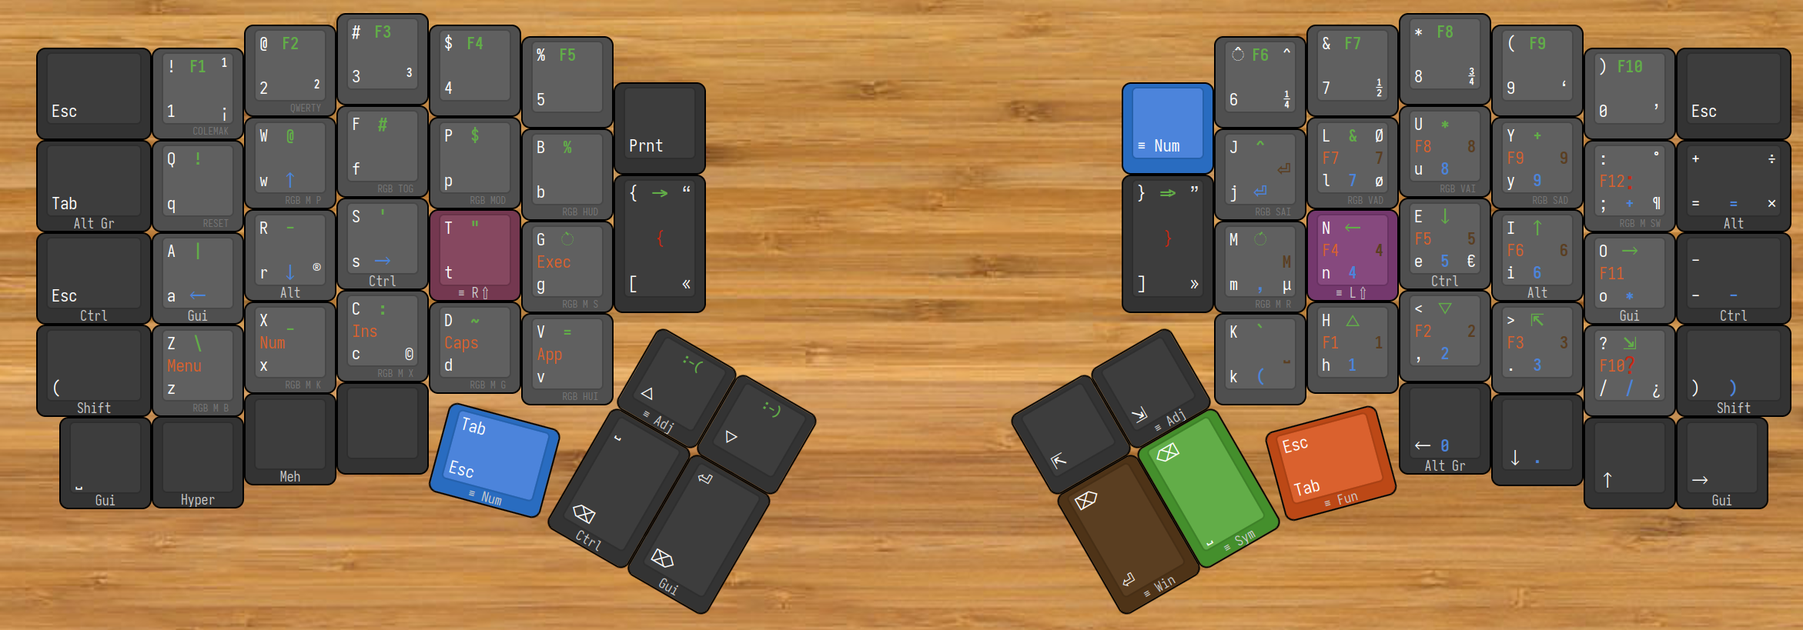
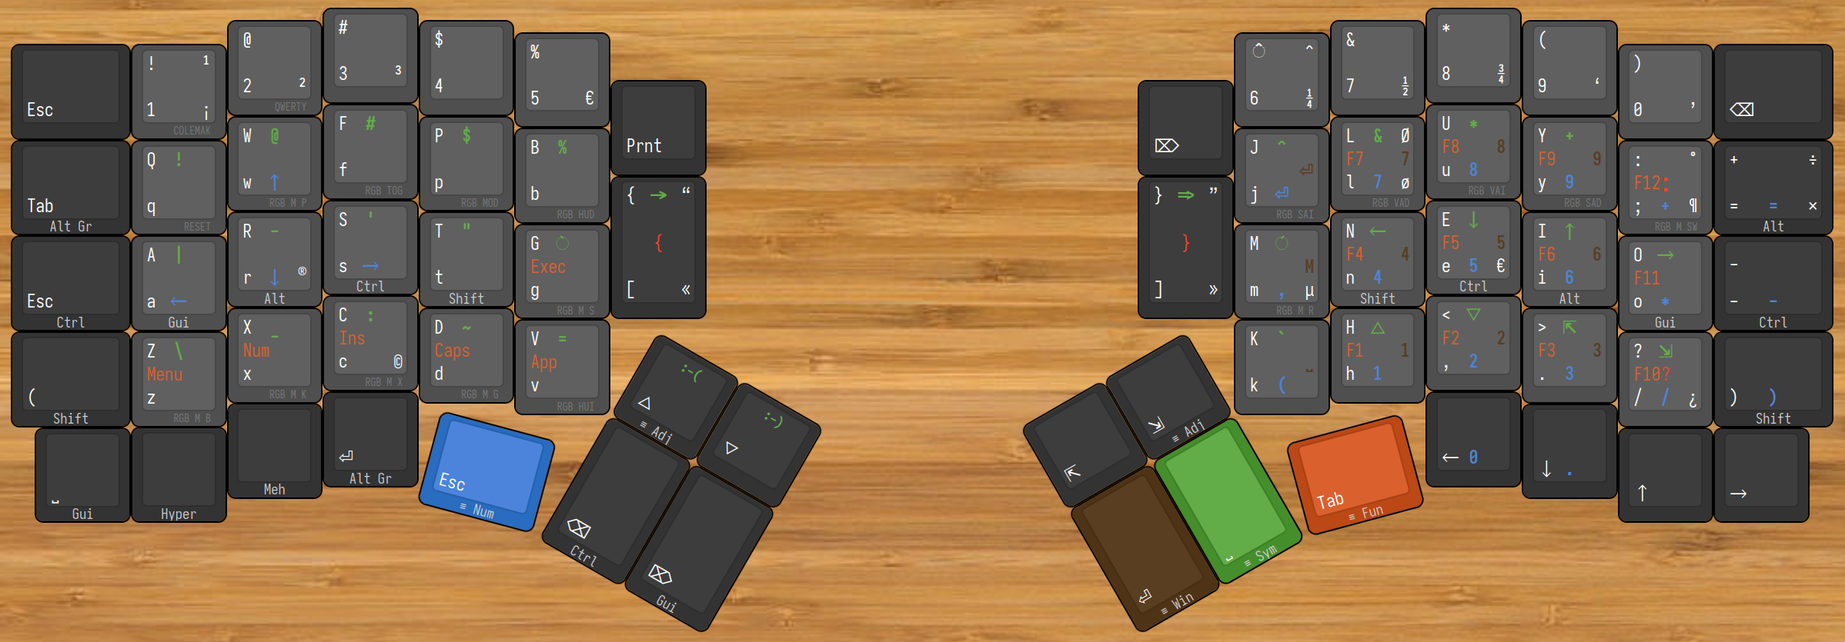
New branch with mouse and clipboard.
This new layout is inspired by the Miryoku one.

Features:
- Simple shift on home rows (instead of layer with inverted thumbs)
- Mouse layer
- Clipboard keys

diff --git a/keymap.c b/keymap.c
@@ -2,15 +2,12 @@
 
 // Layer names
 enum{
-  // - Base layers:
-  _COLEMAKDHMK,
-  // - Symbols, numbers, functions and custom shifts:
-  _SYMB,
-  _NUMB,
-  _FUNC,
-  _RHSH, // Righ hand shifted keycodes
-  _LHSH, // Left hand shifted keycodes
+  _COLEMAKDH, // Base Colemak Mod-DH
+  _SYMB, // Symbols
+  _NUMB, // Numbers
+  _FUNC, // Functions keys
   _AWES, // AwesomeWM layer
+  _MOUS, // Mouse layer
   // - Adjust layer:
   _ADJUST
 };
@@ -126,50 +123,40 @@ qk_tap_dance_action_t tap_dance_actions[] = {
 #define KC_ADEN LT(_ADJUST, KC_END)   // End / _ADJUST layer
 #define KC_ADPU LT(_ADJUST, KC_PGUP)  // Page Up / _ADJUST layer
 // - Custom home row layers:
-#define KC_N_SH LT(_LHSH, KC_N)       // Pressing N key, enable shifted keys on other half (the left one)
-#define KC_T_SH LT(_RHSH, KC_T)       // Pressing T key, enable shifted keys on other half (the right one)
-// - Custom keys/modifiers:
-// -- External columns:
-// --- Left half:
-#define KC_FUES LT(_FUNC, KC_ESC)     // Esc / _functions
+#define KC_N_SH RSFT_T(KC_N)       // N key or right SHIFT
+#define KC_T_SH LSFT_T(KC_T)       // T key or left SHIFT
+// - Other keys/modifiers:
 #define KC_ATAB RALT_T(KC_TAB)        // Tab / Alt Gr
 #define KC_CESC LCTL_T(KC_ESC)        // Esc / Left Ctrl
 #define KC_GUSP RGUI_T(KC_SPC)        // Space / Right Gui
-// --- Right half:
-#define KC_FUQU LT(_FUNC, KC_QUOT)    // ' " / _functions
 #define KC_AEQL LALT_T(KC_EQL)        // Equals / Left Alt
 #define KC_CMIN RCTL_T(KC_MINUS)      // Minus / Right Ctrl
-#define KC_GURI LGUI_T(KC_RGHT)       // Right Arrow / Left Gui
-// -- Intenal corners:
-#define KC_SYPR LT(_SYMB, KC_PSCR)    // Print Screen / _symbols
-#define KC_NUMB TG(_NUMB)             // Toggle _numbers layer
-// -- Thumb cluster:
-// --- Left half:
 #define KC_NUES LT(_NUMB, KC_ESC)     // Esc / _numbers
 #define KC_CBSP LCTL_T(KC_BSPC)       // Backspace / Left Ctrl
 #define KC_GUDE LGUI_T(KC_DEL)        // Del / Left Gui
-// --- Right half:
-#define KC_CTAB RCTL_T(KC_TAB)        // Tab / Right Ctrl
 #define KC_SYSP LT(_SYMB, KC_SPC)     // Space / _symbols
-#define KC_AWEN LT(_AWES, KC_ENT)     // Enter / Left Alt
-// -- Bottom Keys:
-//#define KC_HYPL HYPR_T(KC_PPLS)     // +  / Hyper (Ctrl + Shift + Alt + Gui)
-//#define KC_MEMI MEH_T(KC_MINS)      // -_ / Meh (Ctrl + Shift + Alt)
+#define KC_MOSP LT(_MOUS, KC_SPC)     // Space / _mouse
+#define KC_AWEN LT(_AWES, KC_ENT)     // Enter / AwesomeWM layer
 #define KC_FUTA LT(_FUNC, KC_TAB)     // Tab / _functions
-// Home row mod tap keys:
-// - Left hand
 #define KC_GU_A LGUI_T(KC_A)          // A / Left Gui
 #define KC_CT_S LCTL_T(KC_S)          // R / Left Ctrl
 #define KC_AL_R LALT_T(KC_R)          // S / Left Alt
-// - Right hand
 #define KC_GU_O RGUI_T(KC_O)          // O / Right Gui
 #define KC_AL_I LALT_T(KC_I)          // E / Left Alt (left alt because used as Emacs M- )
 #define KC_CT_E RCTL_T(KC_E)          // I / Right Ctrl
+#define KC_RAEN RALT_T(KC_ENT)        // Enter / Right Alt
 // Tap dance keys:
 #define KC_TDSC TD(TD_SCLN)           // ;; -> :
 #define KC_TDLB TD(TD_LBRC)           // [[ -> {
 #define KC_TDRB TD(TD_RBRC)           // ]] -> }
 #define KC_SLQM TD(TD_SLQM)           // // -> ?
+
+// Clipboard (inspired by Miryoku)
+#define U_RDO AGIN
+#define U_PST S(KC_INS)
+#define U_CPY C(KC_INS)
+#define U_CUT S(KC_DEL)
+#define U_UND UNDO
 
 // Send custom strings or change default base layer
 bool process_record_user(uint16_t keycode, keyrecord_t *record) {
@@ -219,9 +206,9 @@ bool process_record_user(uint16_t keycode, keyrecord_t *record) {
       case ASC_RAN:
         SEND_STRING(SS_RALT("]"));
         return false;
-      case COLEMAKDHMK:
+      case COLEMAKDH:
         if (record->event.pressed) {
-          set_single_persistent_default_layer(_COLEMAKDHMK);
+          set_single_persistent_default_layer(_COLEMAKDH);
         }
         return false;
         break;
@@ -255,25 +242,25 @@ uint16_t get_tapping_term(uint16_t keycode, keyrecord_t *record) {
 
 const uint16_t PROGMEM keymaps[][MATRIX_ROWS][MATRIX_COLS] = {
 
-  // Colemak-DHm
-  [_COLEMAKDHMK] = LAYOUT(
+  // Colemak Mod-DH
+  [_COLEMAKDH] = LAYOUT(
     //┌────────┬────────┬────────┬────────┬────────┬────────┐                                           ┌────────┬────────┬────────┬────────┬────────┬────────┐
-       KC_ESC  ,KC_1    ,KC_2    ,KC_3    ,KC_4    ,KC_5    ,                                            KC_6    ,KC_7    ,KC_8    ,KC_9    ,KC_0    ,KC_ESC  ,
+       KC_ESC  ,KC_1    ,KC_2    ,KC_3    ,KC_4    ,KC_5    ,                                            KC_6    ,KC_7    ,KC_8    ,KC_9    ,KC_0    ,KC_BSPC ,
     //├────────┼────────┼────────┼────────┼────────┼────────┼────────┐                         ┌────────┼────────┼────────┼────────┼────────┼────────┼────────┤
-       KC_ATAB ,KC_Q    ,KC_W    ,KC_F    ,KC_P    ,KC_B    ,KC_PSCR ,                          KC_NUMB ,KC_J    ,KC_L    ,KC_U    ,KC_Y    ,KC_TDSC ,KC_AEQL ,
+       KC_ATAB ,KC_Q    ,KC_W    ,KC_F    ,KC_P    ,KC_B    ,KC_PSCR ,                          KC_DEL  ,KC_J    ,KC_L    ,KC_U    ,KC_Y    ,KC_TDSC ,KC_AEQL ,
     //├────────┼────────┼────────┼────────┼────────┼────────┼────────┤                         ├────────┼────────┼────────┼────────┼────────┼────────┼────────┤
        KC_CESC ,KC_GU_A ,KC_AL_R ,KC_CT_S ,KC_T_SH ,KC_G    ,KC_TDLB ,                          KC_TDRB ,KC_M    ,KC_N_SH ,KC_CT_E ,KC_AL_I ,KC_GU_O ,KC_CMIN ,
     //├────────┼────────┼────────┼────────┼────────┼────────┼────────┼────────┐       ┌────────┼────────┼────────┼────────┼────────┼────────┼────────┼────────┤
        KC_LSPO ,KC_Z    ,KC_X    ,KC_C    ,KC_D    ,KC_V    ,KC_ADPU ,KC_PGDN ,        KC_HOME ,KC_ADEN ,KC_K    ,KC_H    ,KC_COMM ,KC_DOT  ,KC_SLQM ,KC_RSPC ,
     //├────────┼────────┼────────┼────────┼────┬───┴────┬───┼────────┼────────┤       ├────────┼────────┼───┬────┴───┬────┼────────┼────────┼────────┼────────┤
-       KC_GUSP ,KC_HYPR ,KC_MEH  ,XXXXXXX ,     KC_NUES ,    KC_CBSP ,KC_GUDE ,        KC_AWEN ,KC_SYSP ,    KC_FUTA ,     KC_LEFT ,KC_DOWN ,KC_UP   ,KC_GURI
+       KC_GUSP ,KC_HYPR ,KC_MEH  ,KC_RAEN ,     KC_NUES ,    KC_MOSP ,KC_GUDE ,        KC_AWEN ,KC_SYSP ,    KC_FUTA ,     KC_LEFT ,KC_DOWN ,KC_UP   ,KC_RGHT
     //└────────┴────────┴────────┴────────┘    └────────┘   └────────┴────────┘       └────────┴────────┘   └────────┘    └────────┴────────┴────────┴────────┘
   ),
 
   // Symbols, home row arrows, function keys and macros layer
   [_SYMB] = LAYOUT(
     //┌────────┬────────┬────────┬────────┬────────┬────────┐                                           ┌────────┬────────┬────────┬────────┬────────┬────────┐
-       _______ ,KC_F1   ,KC_F2   ,KC_F3   ,KC_F4   ,KC_F5   ,                                            KC_F6   ,KC_F7   ,KC_F8   ,KC_F9   ,KC_F10  ,_______ ,
+       _______ ,_______ ,_______ ,_______ ,_______ ,_______ ,                                            _______ ,_______ ,_______ ,_______ ,_______ ,_______ ,
     //├────────┼────────┼────────┼────────┼────────┼────────┼────────┐                         ┌────────┼────────┼────────┼────────┼────────┼────────┼────────┤
        _______ ,KC_EXLM ,KC_AT   ,KC_HASH ,KC_DLR  ,KC_PERC ,_______ ,                          _______ ,ASC_CIRC,KC_AMPR ,KC_ASTR ,KC_PLUS ,_______ ,_______ ,
     //├────────┼────────┼────────┼────────┼────────┼────────┼────────┤                         ├────────┼────────┼────────┼────────┼────────┼────────┼────────┤
@@ -288,13 +275,13 @@ const uint16_t PROGMEM keymaps[][MATRIX_ROWS][MATRIX_COLS] = {
   // Numeric keypad layer
   [_NUMB] = LAYOUT(
     //┌────────┬────────┬────────┬────────┬────────┬────────┐                                           ┌────────┬────────┬────────┬────────┬────────┬────────┐
-       _______ ,XXXXXXX ,XXXXXXX ,XXXXXXX ,XXXXXXX ,XXXXXXX ,                                            XXXXXXX ,XXXXXXX ,XXXXXXX ,XXXXXXX ,XXXXXXX ,_______ ,
+       _______ ,_______ ,_______ ,_______ ,_______ ,_______ ,                                            _______ ,_______ ,_______ ,_______ ,_______ ,_______ ,
     //├────────┼────────┼────────┼────────┼────────┼────────┼────────┐                         ┌────────┼────────┼────────┼────────┼────────┼────────┼────────┤
-       _______ ,XXXXXXX ,KC_UP   ,XXXXXXX ,XXXXXXX ,XXXXXXX ,_______ ,                          KC_NUMB ,KC_PENT ,KC_KP_7 ,KC_KP_8 ,KC_KP_9 ,KC_PPLS ,KC_PEQL ,
+       _______ ,U_UND   ,U_CUT   ,U_CPY   ,U_PST   ,U_RDO   ,_______ ,                          KC_NUMB ,KC_PENT ,KC_KP_7 ,KC_KP_8 ,KC_KP_9 ,KC_PPLS ,KC_PEQL ,
     //├────────┼────────┼────────┼────────┼────────┼────────┼────────┤                         ├────────┼────────┼────────┼────────┼────────┼────────┼────────┤
-       _______ ,KC_LEFT ,KC_DOWN ,KC_RGHT ,XXXXXXX ,XXXXXXX ,_______ ,                          XXXXXXX ,KC_COMM ,KC_KP_4 ,KC_KP_5 ,KC_KP_6 ,KC_PAST ,KC_PMNS ,
+       _______ ,_______ ,_______ ,_______ ,_______ ,_______ ,_______ ,                          XXXXXXX ,KC_COMM ,KC_KP_4 ,KC_KP_5 ,KC_KP_6 ,KC_PAST ,KC_PMNS ,
     //├────────┼────────┼────────┼────────┼────────┼────────┼────────┼────────┐       ┌────────┼────────┼────────┼────────┼────────┼────────┼────────┼────────┤
-       _______ ,XXXXXXX ,XXXXXXX ,XXXXXXX ,XXXXXXX ,XXXXXXX ,_______ ,_______ ,        _______ ,_______ ,S(KC_9) ,KC_KP_1 ,KC_KP_2 ,KC_KP_3 ,KC_PSLS ,S(KC_0) ,
+       _______ ,_______ ,_______ ,_______ ,_______ ,_______ ,_______ ,_______ ,        _______ ,_______ ,S(KC_9) ,KC_KP_1 ,KC_KP_2 ,KC_KP_3 ,KC_PSLS ,S(KC_0) ,
     //├────────┼────────┼────────┼────────┼────┬───┴────┬───┼────────┼────────┤       ├────────┼────────┼───┬────┴───┬────┼────────┼────────┼────────┼────────┤
        _______ ,_______ ,_______ ,_______ ,     _______ ,    _______ ,_______ ,        KC_PENT ,KC_KP_0 ,    KC_PDOT ,     KC_KP_0 ,KC_PDOT ,XXXXXXX ,XXXXXXX
     //└────────┴────────┴────────┴────────┘    └────────┘   └────────┴────────┘       └────────┴────────┘   └────────┘    └────────┴────────┴────────┴────────┘
@@ -305,43 +292,13 @@ const uint16_t PROGMEM keymaps[][MATRIX_ROWS][MATRIX_COLS] = {
     //┌────────┬────────┬────────┬────────┬────────┬────────┐                                           ┌────────┬────────┬────────┬────────┬────────┬────────┐
        _______ ,_______ ,_______ ,_______ ,_______ ,_______ ,                                            _______ ,_______ ,_______ ,_______ ,_______ ,_______ ,
     //├────────┼────────┼────────┼────────┼────────┼────────┼────────┐                         ┌────────┼────────┼────────┼────────┼────────┼────────┼────────┤
-       _______ ,XXXXXXX ,XXXXXXX ,XXXXXXX ,XXXXXXX ,XXXXXXX ,_______ ,                          _______ ,XXXXXXX ,KC_F7   ,KC_F8   ,KC_F9   ,KC_F12  ,_______ ,
+       _______ ,U_UND   ,U_CUT   ,U_CPY   ,U_PST   ,U_RDO   ,_______ ,                          _______ ,XXXXXXX ,KC_F7   ,KC_F8   ,KC_F9   ,KC_F12  ,_______ ,
     //├────────┼────────┼────────┼────────┼────────┼────────┼────────┤                         ├────────┼────────┼────────┼────────┼────────┼────────┼────────┤
        _______ ,_______ ,_______ ,_______ ,_______ ,KC_EXEC ,XXXXXXX ,                          XXXXXXX ,XXXXXXX ,KC_F4   ,KC_F5   ,KC_F6   ,KC_F11  ,_______ ,
     //├────────┼────────┼────────┼────────┼────────┼────────┼────────┼────────┐       ┌────────┼────────┼────────┼────────┼────────┼────────┼────────┼────────┤
        _______ ,KC_MENU ,KC_NLCK ,KC_INS  ,KC_CAPS ,KC_APP  ,_______ ,_______ ,        _______ ,_______ ,XXXXXXX ,KC_F1   ,KC_F2   ,KC_F3   ,KC_F10  ,_______ ,
     //├────────┼────────┼────────┼────────┼────┬───┴────┬───┼────────┼────────┤       ├────────┼────────┼───┬────┴───┬────┼────────┼────────┼────────┼────────┤
        _______ ,_______ ,_______ ,XXXXXXX ,     _______ ,    _______ ,_______ ,        _______ ,_______ ,    _______ ,     _______ ,XXXXXXX ,XXXXXXX ,_______
-    //└────────┴────────┴────────┴────────┘    └────────┘   └────────┴────────┘       └────────┴────────┘   └────────┘    └────────┴────────┴────────┴────────┘
-  ),
-
-  // Left hand shifted keycodes
-  [_LHSH] = LAYOUT(
-    //┌────────┬────────┬────────┬────────┬────────┬────────┐                                           ┌────────┬────────┬────────┬────────┬────────┬────────┐
-       _______ ,_______ ,_______ ,_______ ,_______ ,_______ ,                                            _______ ,_______ ,_______ ,_______ ,_______ ,_______ ,
-    //├────────┼────────┼────────┼────────┼────────┼────────┼────────┐                         ┌────────┼────────┼────────┼────────┼────────┼────────┼────────┤
-       _______ ,S(KC_Q) ,S(KC_W) ,S(KC_F) ,S(KC_P) ,S(KC_B) ,_______ ,                          _______ ,_______ ,_______ ,_______ ,_______ ,_______ ,_______ ,
-    //├────────┼────────┼────────┼────────┼────────┼────────┼────────┤                         ├────────┼────────┼────────┼────────┼────────┼────────┼────────┤
-       _______ ,S(KC_A) ,S(KC_R) ,S(KC_S) ,S(KC_T) ,S(KC_G) ,ASC_CBRL,                          _______ ,_______ ,_______ ,_______ ,_______ ,_______ ,_______ ,
-    //├────────┼────────┼────────┼────────┼────────┼────────┼────────┼────────┐       ┌────────┼────────┼────────┼────────┼────────┼────────┼────────┼────────┤
-       _______ ,S(KC_Z) ,S(KC_X) ,S(KC_C) ,S(KC_D) ,S(KC_V) ,_______ ,_______ ,        _______ ,_______ ,_______ ,_______ ,_______ ,_______ ,_______ ,_______ ,
-    //├────────┼────────┼────────┼────────┼────┬───┴────┬───┼────────┼────────┤       ├────────┼────────┼───┬────┴───┬────┼────────┼────────┼────────┼────────┤
-       _______ ,_______ ,_______ ,XXXXXXX ,     _______ ,    _______ ,_______ ,        KC_DEL  ,KC_BSPC ,    KC_ESC  ,     _______ ,_______ ,_______ ,_______
-    //└────────┴────────┴────────┴────────┘    └────────┘   └────────┴────────┘       └────────┴────────┘   └────────┘    └────────┴────────┴────────┴────────┘
-  ),
-
-  // Right hand shifted keycodes
-  [_RHSH] = LAYOUT(
-    //┌────────┬────────┬────────┬────────┬────────┬────────┐                                           ┌────────┬────────┬────────┬────────┬────────┬────────┐
-       _______ ,_______ ,_______ ,_______ ,_______ ,_______ ,                                            _______ ,_______ ,_______ ,_______ ,_______ ,_______ ,
-    //├────────┼────────┼────────┼────────┼────────┼────────┼────────┐                         ┌────────┼────────┼────────┼────────┼────────┼────────┼────────┤
-       _______ ,_______ ,_______ ,_______ ,_______ ,_______ ,_______ ,                          _______ ,S(KC_J) ,S(KC_L) ,S(KC_U) ,S(KC_Y) ,KC_COLN ,_______ ,
-    //├────────┼────────┼────────┼────────┼────────┼────────┼────────┤                         ├────────┼────────┼────────┼────────┼────────┼────────┼────────┤
-       _______ ,_______ ,_______ ,_______ ,_______ ,_______ ,_______ ,                          ASC_CBRR,S(KC_M) ,S(KC_N) ,S(KC_E) ,S(KC_I) ,S(KC_O) ,_______ ,
-    //├────────┼────────┼────────┼────────┼────────┼────────┼────────┼────────┐       ┌────────┼────────┼────────┼────────┼────────┼────────┼────────┼────────┤
-       _______ ,_______ ,_______ ,_______ ,_______ ,_______ ,_______ ,_______ ,        _______ ,_______ ,S(KC_K) ,S(KC_H) ,KC_LABK ,KC_RABK ,KC_QUES ,_______ ,
-    //├────────┼────────┼────────┼────────┼────┬───┴────┬───┼────────┼────────┤       ├────────┼────────┼───┬────┴───┬────┼────────┼────────┼────────┼────────┤
-       _______ ,_______ ,_______ ,XXXXXXX ,     KC_TAB  ,    KC_SPC  ,KC_ENT  ,        _______ ,_______ ,    _______ ,     _______ ,_______ ,_______ ,_______
     //└────────┴────────┴────────┴────────┘    └────────┘   └────────┴────────┘       └────────┴────────┘   └────────┘    └────────┴────────┴────────┴────────┘
   ),
 
@@ -357,6 +314,21 @@ const uint16_t PROGMEM keymaps[][MATRIX_ROWS][MATRIX_COLS] = {
        _______ ,_______ ,_______ ,_______ ,_______ ,_______ ,_______ ,_______ ,        _______ ,_______ ,LGUI(KC_SPC) ,LGUI(KC_1), LGUI(KC_2), LGUI(KC_3),_______ ,_______ ,
     //├────────┼────────┼────────┼────────┼────┬───┴────┬───┼────────┼────────┤       ├────────┼────────┼───┬────┴───┬────┼────────┼────────┼────────┼────────┤
        _______ ,_______ ,_______ ,XXXXXXX ,     _______ ,    _______ ,_______ ,        _______ ,_______ ,    _______ ,     _______ ,_______ ,_______ ,_______
+    //└────────┴────────┴────────┴────────┘    └────────┘   └────────┴────────┘       └────────┴────────┘   └────────┘    └────────┴────────┴────────┴────────┘
+  ),
+
+  // AwesomeWM layer
+  [_MOUS] = LAYOUT(
+    //┌────────┬────────┬────────┬────────┬────────┬────────┐                                           ┌────────┬────────┬────────┬────────┬────────┬────────┐
+       _______ ,_______ ,_______ ,_______ ,_______ ,_______ ,                                            _______ ,_______ ,_______ ,_______ ,_______ ,_______ ,
+    //├────────┼────────┼────────┼────────┼────────┼────────┼────────┐                         ┌────────┼────────┼────────┼────────┼────────┼────────┼────────┤
+       _______ ,U_UND   ,U_CUT   ,U_CPY   ,U_PST   ,U_RDO   ,_______ ,                          _______ ,U_RDO   ,U_PST   ,U_CPY   ,U_CUT   ,U_UND   ,_______ ,
+    //├────────┼────────┼────────┼────────┼────────┼────────┼────────┤                         ├────────┼────────┼────────┼────────┼────────┼────────┼────────┤
+       _______ ,_______ ,_______ ,_______ ,_______ ,_______ ,_______ ,                          _______ ,_______ ,KC_MS_L ,KC_MS_D ,KC_MS_U ,KC_MS_R ,_______ ,
+    //├────────┼────────┼────────┼────────┼────────┼────────┼────────┤                         ├────────┼────────┼────────┼────────┼────────┼────────┼────────┤
+       _______ ,_______ ,_______ ,_______ ,_______ ,_______ ,_______ ,                          _______ ,_______ ,KC_WH_L ,KC_WH_D ,KC_WH_U ,KC_WH_R ,_______ ,
+    //├────────┼────────┼────────┼────────┼────┬───┴────┬───┼────────┼────────┤       ├────────┼────────┼───┬────┴───┬────┼────────┼────────┼────────┼────────┤
+       _______ ,_______ ,_______ ,XXXXXXX ,     _______ ,    _______ ,_______ ,        KC_BTN1 ,KC_BTN3 ,    KC_BTN2 ,     _______ ,_______ ,_______ ,_______
     //└────────┴────────┴────────┴────────┘    └────────┘   └────────┴────────┘       └────────┴────────┘   └────────┘    └────────┴────────┴────────┴────────┘
   ),
 
